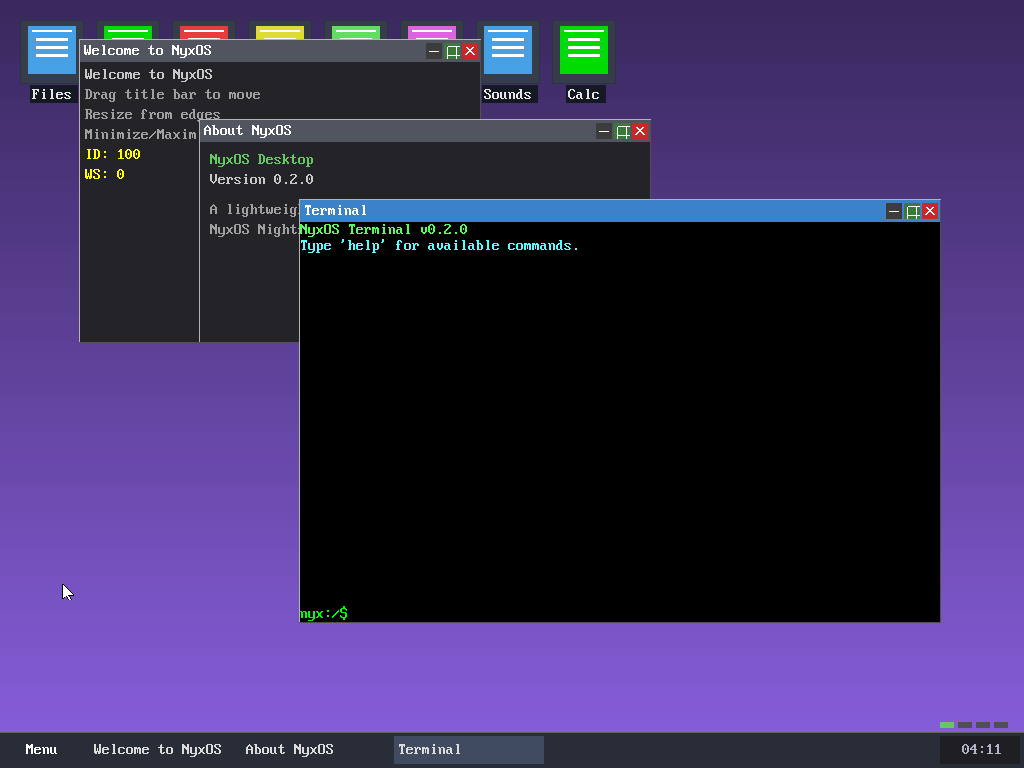
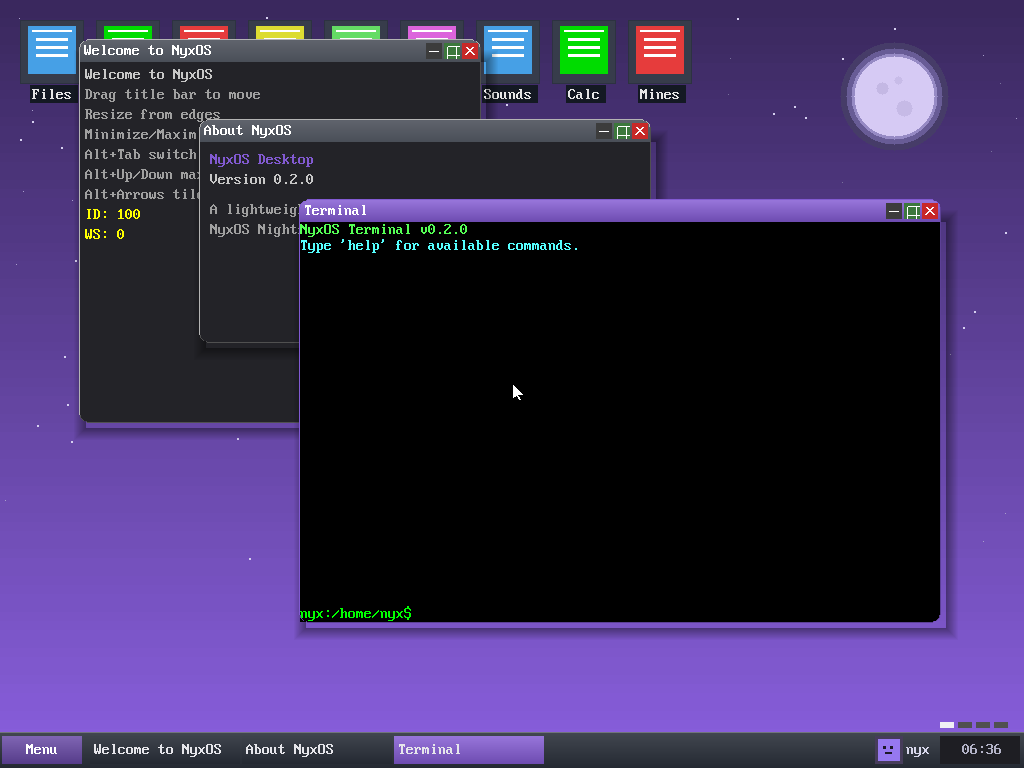
v5.9.19 - README hero screenshot refreshed (the repo face matches the OS)
gui.png was from before the entire v5.9.10-18 visual arc — square
windows, blue title bars, flat strips, no shadows, flat taskbar.
Replaced with a fresh headless boot capture showing the current chrome:
rounded windows, drop shadows, gradient title bars, purple brand Menu
button, gradient taskbar, Nightfall moon and wallpaper. README
cache-buster bumped ?v=3 -> ?v=4. Capstone of the v5.9.1-19 visual arc.

No code, no new syscalls (still 54). 0 faults, 0 panics.

diff --git a/kernel/kernel.h b/kernel/kernel.h
@@ -43,7 +43,7 @@ typedef __builtin_va_list va_list;
 // ============================================================
 #define NULL ((void*)0)
 #define KERNEL_NAME    "NyxOS"
-#define KERNEL_VERSION "5.9.18"
+#define KERNEL_VERSION "5.9.19"
 #define KERNEL_CODENAME "GUI Suite"
 #define KERNEL_DATE    "2026"
 

diff --git a/README.md b/README.md
@@ -9,7 +9,7 @@
   <a href="https://github.com/kazah-png/nyx-os/releases/tag/v5.9.0-LTS">
     <img src="https://img.shields.io/badge/release-v5.9.0--LTS-825AD2?style=flat" />
   </a>
-  <img src="https://img.shields.io/badge/status-v5.9.18-825AD2?style=flat" />
+  <img src="https://img.shields.io/badge/status-v5.9.19-825AD2?style=flat" />
   <img src="https://img.shields.io/badge/TCP-yes-825AD2?style=flat" />
   <img src="https://img.shields.io/badge/GUI-window%20compositor-825AD2?style=flat" />
   <img src="https://img.shields.io/badge/%F0%9F%8C%99%20NyxC-runtime-8b5cf6?style=flat" />
@@ -38,7 +38,7 @@ nyx:root$ nyxfetch
     .:oo.. :o.              -----------------
   :oo:.oo.o:                OS:         NyxOS x86_64
  .#o:.   :.                 Host:       QEMU Standard PC
- #:::....:                  Kernel:     NyxOS 5.9.18 (Full Suite)
+ #:::....:                  Kernel:     NyxOS 5.9.19 (Full Suite)
 o#::. . o.                  Uptime:     00:00:11
 o#.o:   :o                  Resolution: 1024 x 768
 o###o   o#                  CPU:        QEMU Virtual CPU version 2.5+ (1)
@@ -59,7 +59,7 @@ o###o   o#                  CPU:        QEMU Virtual CPU version 2.5+ (1)
 The project implements core kernel primitives, a custom network stack (RTL8139 NIC + ARP/IP/UDP/ICMP/DHCP + TCP with retransmission and passive open), userspace TCP/UDP sockets with `poll()` I/O multiplexing, a window compositor GUI, and a Sound Blaster 16 audio driver — all written in C and x86_64 Assembly with no external libraries.
 
 <div align="center">
-  <img src="gui.png?v=3" alt="NyxOS Desktop v5.9.18" width="700" />
+  <img src="gui.png?v=4" alt="NyxOS Desktop v5.9.19" width="700" />
   <p><em>NyxOS Desktop — app icons, purple wallpaper, windows and a taskbar</em></p>
 </div>
 
@@ -176,7 +176,7 @@ nyx:root$ ls /
 bin/   dev/   etc/   home/  mnt/   root/  tmp/   usr/   var/
 
 nyx:root$ uname
-NyxOS 5.9.18 (Full Suite) x86_64
+NyxOS 5.9.19 (Full Suite) x86_64
 
 nyx:root$ mem
 Physical memory: 256 MB total, 252 MB free

diff --git a/AGENTS.md b/AGENTS.md
@@ -184,6 +184,7 @@ Every commit must keep these in sync: GitHub Wiki (`nyx-os.wiki.git`), website (
 | v5.9.0-rc17 | **The three GUI highs — and a fourth found only by actually clicking.** **`gui.c:103` was a divide by zero in ring 0.** The paint loop interpolated between the previous and current pointer positions with `(x1 - x0) * i / steps`, and `steps` is 0 whenever the pointer has not moved since the last sample — i.e. any time the user holds the button down without dragging, which is the most ordinary thing to do with a paint tool. The loop still ran once, so `0 * 0 / 0` raised `#DE` in the kernel. At zero steps the endpoints are the same point, so there is nothing to interpolate; it plots and moves on. **`compositor.c:264` disagreed with the drawing code on all three of its numbers.** Entries start `START_ITEM_Y` = 28 px below the menu top, under the green header, and the hit test subtracted 8 — twenty pixels of skew, so the lower two thirds of every entry selected the one BELOW it and clicking "Terminal" opened Settings. The menu has thirteen entries and the test rejected `>= 12`, so Minesweeper could not be launched from the menu at all (the `case 12:` action existed and was reachable only from a desktop icon). And because C integer division truncates toward ZERO, a click on the header computed index 0 rather than something negative, the `< 0` guard never fired, and clicking the title bar launched File Manager. Fixed the way the TITLE_H family was: `START_HDR_H`/`START_ITEM_Y`/`START_ITEM_H`/`START_ITEM_N` are now read by both the drawing loop and the hit test, instead of each deriving the layout and being right or wrong on its own. **`fb.c` was worse than reported.** `fb_enable_backbuffer()` returned early when a buffer already existed — without repointing `fb_addr` at it. After a logout that pointer is the HARDWARE framebuffer, because `fb_use_lfb_direct()` sent the login screen there, so the *second* desktop of a session drew every element straight onto the visible screen (the flicker double buffering exists to prevent) while `fb_present` kept blitting the back buffer — still holding the previous user's frozen desktop — over it every frame. It now repoints and clears the buffer, so nothing from a session that logged out can survive into the next, and `fb_present` refuses to publish unless drawing is actually going to the back buffer. **The fourth: menu transitions were level-triggered.** The whole left-button block runs under `if (btns & 1)`, which re-runs every compositor iteration while the button is held — right for dragging, wrong for menus. Pressing "Menu" toggled it open on iteration 1; on iteration 2 the button was still down and the pointer was still on the taskbar at y=750, outside the menu rect, so the click-outside branch closed it again. The Start menu opened and shut inside a single press and whether anything survived came down to how long the click lasted. Opening, closing and selecting are all edge events; only the drag paths are level events. **Verified by driving the real PS/2 mouse** through the QEMU monitor and reading frames back as PNGs — the first suite in this project that clicks rather than types. It confirmed the drawn menu geometry matches the new constants exactly (13 entries at `360 + 28i`, Minesweeper last at y≈708) and that a press now opens the menu deterministically where the old build was parity-dependent. **Then verified end to end, by clicking.** The scripted harness could not deliver a button press — QEMU's HMP `mouse_button` does not itself emit a PS/2 packet — so the checks were driven on the real machine instead, with a hybrid that covers each tool's gap: the QEMU monitor positions the guest cursor exactly, and a genuine host press supplies the button. (`left_click` is unusable here: it moves the host pointer first, and under grab that relative motion drags the guest cursor off target. Press and release with no move in between works.) Results, each read off a screenshot: clicking the visual centre of **"Terminal"** (index 3) opened a **Terminal** — the old 20 px skew would have opened Settings; clicking **"Minesweeper"** (index 12), with no Minesweeper window on screen beforehand, **opened one** — the old `>= 12` guard rejected that index outright; clicking the **green header** opened nothing and left the menu up, with **Calculator** (index 11) clicked immediately afterwards as a positive control proving the input path was live at that moment, so "nothing happened" means ignored and not undelivered. For `gui.c`, the serial log confirms `gui_demo` was actually running (`Launching GUI demo...`) and two four-second press-and-holds **without moving the pointer** — the exact `steps == 0` condition — produced **0 PANIC, 0 Exception**. For `fb.c`, a real logout showed a clean login screen with no trace of the session behind it, and the second desktop came up **completely clean** — no Calculator, no Minesweeper, no second Terminal from the session that had just ended, which is the stale back buffer the fix clears. Harness kept at `scratchpad/guiverify.py`. **No new syscalls** (still 52). Regression: 4-CPU smpstress **0 integrity failures**, `threads` **8000/8000 OK**, `pstorm 30` **0 faulted / 0 MAPCORRUPT / 0 PANIC**, and no faults across every GUI run. |
 | v5.9.0-LTS | **P0.1 CLOSED — the intermittent ring-3 `[fault]` was a preemptible CR3-switch→iretq window in the syscall-exit path. LTS release.** The one release-blocking bug in the default configuration, open across the whole SMP arc, is root-caused and fixed with a single `cli`. **The mechanism, found by REASONING after in-guest instrumentation was proven to perturb the race away:** the syscall-exit path (`isr_stubs.asm`) does `mov cr3,[user]` and then runs ~20 instructions (CPL 0, already on the USER CR3, committed to ring 3) before the `iretq`. If a timer preempts the task *in that window*, `irq_common` saves a frame whose CS reads 0x08 — genuinely ring 0 — so `irq_scheduler_tick` resumes it on the KERNEL CR3 under its rule "a ring-0 frame switches to user itself before its iretq". But this task has ALREADY switched, so its `push 0x1B; iretq` returns to ring 3 **on the kernel CR3**; the first user instruction fetch faults with CR2==RIP. **Why it matched every observed property:** the window is only preemptible with IF=1, and syscall ENTRY masks IF via SF_MASK — so a *simple* syscall runs cli'd end-to-end and can never be hit. Only BLOCKING syscalls (`futex_wait`, `do_waitpid`, poll, pipe read) `sti` to yield and *return with IF=1* (verified: both break paths of `futex_wait` leave IF set), which is why the fault was **always in `threads`** (the only futex-heavy workload), **load-dependent** (the timer must land in ~20 instructions), and **present in the default single-core config** (it is a preemption-window bug, NOT an SMP race). It also explains why every earlier scheduler-*decision* probe showed a "correct" `saw_cs=0x8`: the decision *is* correct for a ring-0 frame; the frame cannot reveal that the CR3 switch already happened. **The fix:** one `cli` immediately after `signal_dispatch`, before the user-CR3 reload — making the CR3-switch→iretq window non-preemptible; the `iretq` restores the user RFLAGS (IF=1) atomically as it crosses to ring 3. Covers every syscall regardless of what it left IF as; the entry side needs no equivalent (IF=0 from SF_MASK) and the irq/isr return paths run under interrupt gates (IF=0), so no other such window exists. **Verified in the linked binary** (`fa` cli at 0x100343, between `call signal_dispatch` and `mov %gs:0x10,%rax`) and by an **interleaved A/B under build load** alternating the two ISOs every boot: baseline-without-cli reproduced P0.1 (`pid 7 (threads) … cs=0x1b <ON-KERNEL-CR3>`) while the cli build ran **23 valid rounds, 0 faults** under identical contention. The proof is primarily *mechanistic* — the cli closes the only (CPL0 + user-CR3 + IF=1) window in the kernel — with the A/B as the corroborating control. Also this arc: the fault diagnostic was corrected (`isr_common` now passes the faulting CR3 to `isr_handler`; a prior `read_cr3()` there reported the kernel CR3 on *every* ring-3 fault, an artefact that had driven five dead hypotheses), and `sched_forget()` closes a `sched_cur` use-after-free at both `kfree(process)` sites. **No new syscalls** (still 52). Regression on the fixed build: 4-CPU smpstress **0 integrity failures**, `threads` **8000/8000 OK**, `pstorm 30` **0 faulted / 0 MAPCORRUPT / 0 PANIC**; 23+ clean loaded rounds. **Known limits (opt-in, OFF by default, documented):** `smpbalance on` process-spreading and thread-group un-pinning still wedge under fork/exec churn (P2.x) — the default configuration does not touch them, and the VFS/terminal remain unlocked against a user process deliberately placed on an AP. | 
 | v5.9.1 | **"Nightfall" desktop — a central GUI palette, and the brand purple everywhere the placeholder green used to be.** First increment of the visual track that follows the LTS. **The refactor that made it possible: `kernel/theme.h`.** Colours were `fb_rgb(r,g,b)` literals scattered across `compositor.c` and every `*_win.c`, so changing the accent meant hunting call sites and the desktop could not be themed at all. Call sites now name a ROLE — `THEME_ACCENT`, `THEME_WINDOW_BG`, `THEME_BORDER`, `THEME_ROW_DIV`, `THEME_TASKBAR_*`, `THEME_TEXT`, `THEME_ON_ACCENT` — and the values live in one header. They are macros rather than a const struct because `fb_rgb()` is a runtime function, which also leaves the door open for a future Settings→accent by swapping them for a table lookup **without touching a single call site**. **The brand fix:** the accent is the brand purple `{130,90,210}` — the wallpaper's own default "Morado" — replacing the leftover placeholder green `fb_rgb(60,120,60)` on the Start-menu header band and its title text, and driving `taskbar_hl` so the **active Menu button and the focused window** now carry the accent. The window controls keep their traffic-light scheme (close red / minimise grey / maximise green): that green is a control affordance, not branding, and recolouring it would have broken a universal convention. **One accent swap was WRONG and the screenshot caught it.** The workspace indicator's active marker was moved to the accent like everything else — but it is drawn on the DESKTOP (`fh - TASKBAR_H - 10`), not the taskbar, and the wallpaper's base colour is user-selectable. Brand purple on the default purple wallpaper rendered the ACTIVE marker nearly invisible while the inactive greys stood out — exactly backwards, and strictly worse than the green it replaced. Zooming that 14x6 px region 8x is what exposed it; at full-screen scale it looked fine. Fixed with a dedicated `THEME_INDICATOR_ON`/`_OFF` pair (near-white vs dark grey) whose comment states the rule: anything painted over the wallpaper must be light-vs-dark, never accent-coloured, because it has to survive all eleven wallpaper choices. The About window's "NyxOS Desktop" heading also moved green → accent (it sits on a dark panel, so the accent reads fine there). **The desktop itself:** `draw_background()` rewritten as a Nightfall sky — a purple vertical gradient, a glowing moon built from concentric halos plus craters, and **110 deterministic LCG-seeded stars** that avoid the moon's area so the composition stays readable at any resolution. Two small helpers back it: `bg_isqrt()` (integer Newton square root — no FPU in the kernel) and `bg_fill_circle()` (horizontal-span fill). Determinism matters here: the star field is seeded, so every boot paints the identical sky rather than flickering to a new one on each repaint. **Branding swept beyond the GUI:** the README badges were still shields-green `00ff9d` while the brand is purple — all seven are now `825AD2`, so the repo, the login screen and the desktop finally agree on one colour. **No new syscalls** (still 52). No kernel-internals change: this increment is compositor + docs only, so the v5.9.0-LTS guarantees (P0.1 closed, 23 clean loaded rounds) carry over untouched. |
+| v5.9.19 | **README hero screenshot refreshed — the repo's public face finally matches the OS.** `gui.png` was dated **2026-07-21**, from before the entire v5.9.10-18 visual arc: it showed square windows, a *blue* Terminal title bar (the pre-brand accent), flat title strips, no drop shadows, and a flat taskbar — a genuinely different, worse-looking desktop than what NyxOS is now. Regenerated from a fresh headless boot of the v5.9.19 build (0 faults): the new shot shows the full current chrome — rounded windows on all four corners, soft drop shadows, top-lit gradient title bars, the purple brand Menu button and gradient taskbar, the Nightfall moon and wallpaper. `gui.png` replaced (11.7 KB -> 21.2 KB, still trivially small), and the README's cache-buster bumped `?v=3` -> `?v=4` so the new image actually shows on GitHub rather than serving the stale cached one. This is the capstone of the visual track (v5.9.1-19): branding, palette, window chrome, tiling, keyboard management, and depth are all shipped and now accurately advertised. **No code, no new syscalls** (still 54 — `gui.png` + README only). |
 | v5.9.18 | **Windows round on all four corners — the v5.9.12 follow-up, closed with a framebuffer clip region.** Since v5.9.12 only the window *tops* rounded, because app draw callbacks (`terminal_win_draw`, etc.) fill their client rect edge-to-edge and would square off any rounded bottom. The clean fix is the one v5.9.17 set up: a **clip region** in `fb.c`. `fb_set_round_clip(x,y,w,h,r)` / `fb_clear_clip()` install a rectangle whose two BOTTOM corners are rounded to `r` (the top stays square — the title bar rounds that); `fb_fill_rect` and `fb_blit` mask their writes to it via a per-row `clip_span()` that narrows by `fb_corner_inset` within `r` of the bottom. The compositor wraps each window's **body fill + `win->draw()`** in the clip (and reorders the app draw *before* the frame), so whatever an app paints is masked to the window's rounded-bottom silhouette; `draw_window_frame` then traces the bottom arc unclipped, mirroring the top. **The risk was touching `fb_fill_rect` — the hottest primitive — so the clip-off path is kept byte-for-byte identical and that was proven, not asserted:** the login screen (which never sets a clip) screendumps **identical to the pre-clip build** (0 differing bytes), so nothing on the fast path moved. The desktop then shows every window as a full rounded card — an 8x crop of the Terminal's bottom-right shows the black content curving to the arc, the accent border tracing it, wallpaper through the corner — with terminal text intact (no interior clipping), shadows/gradients untouched, 0 faults. Font glyphs write the framebuffer directly and are deliberately left unclipped (text never reaches the corner arcs). **Landed in one increment, not the two estimated.** **No new syscalls** (still 54 — `fb.c` capability + compositor wiring). |
 | v5.9.17 | **Rounded-corner primitives consolidated into `fb.c` — paying down the debt v5.9.16 flagged.** By v5.9.16 the rounding logic existed in **three** copies: the compositor's `corner_inset` + `fill_round_rect` + `stroke_round_rect`, its `bg_isqrt` (for the moon), and login.c's `li_*` clones (needed because a standalone pre-compositor screen can't see the compositor's `static` code). All of it is pure maths over `fb_fill_rect`/`fb_put_pixel`, so it belongs in `fb.c` next to the other framebuffer primitives. This lifts `fb_isqrt`, `fb_corner_inset`, `fb_fill_round_rect`, and `fb_stroke_round_rect` there as public functions (declared in `kernel.h`); the compositor and login.c now call those, and `bg_fill_circle` (the Nightfall moon) shares the one `fb_isqrt` too. **Net: three copies collapse to one, ~70 lines of duplication gone, the binary a touch smaller.** This is a pure refactor — no pixel should move — and that was **proven, not assumed**: the login screen, which exercises all four lifted functions (`fill_round_rect` for the card, `corner_inset` for the header, `stroke_round_rect` for the border, `isqrt` underneath), screendumps **byte-for-byte identical** to v5.9.16 ([phone redacted] bytes, 0 differing). The desktop re-verified visually unchanged (rounded window tops, gradients, shadows all intact), 0 faults. A `sed`-driven rename kept the call sites mechanical; the removed definitions were checked to leave no dangling references (`bg_isqrt`/`corner_inset`/`li_*` all gone). **No new syscalls** (still 54 — internal refactor, no behaviour change). |
 | v5.9.16 | **Login card — the brand look reaches the first screen the user sees.** Six increments polished the desktop chrome (v5.9.10-15) but the login panel — the *first* surface on boot — was still a flat rectangle with a plain title. It is now a rounded card with an accent-gradient brand header, matching the desktop it leads into. **The interesting constraint is that `login.c` is a standalone pre-compositor screen:** it runs before `compositor_run()` enables double buffering (so it draws straight to the hardware LFB) and it cannot see the compositor's `static` corner/rounding code. Rather than couple the two files, it grows small local helpers — `li_isqrt` + `li_inset` + `li_fill_round` + `li_stroke_round` — pure maths over `fb_fill_rect`/`fb_put_pixel`. The gradient header reuses the already-public `fb_fill_vgrad`-era primitives (`font_draw_string_trans` for the transparent title), so only the corner code is duplicated; a shared gfx primitive to retire both this copy and the compositor's is noted in-code as a future cleanup. **The header is sized to the old title+divider band (34 px), so nothing below it moved** — the username/password fields, avatar picker (create mode), and hints keep their exact offsets, which matters because `draw_active_field` repaints individual fields by hard-coded geometry on every keystroke. The panel is a full **four-corner** rounded card (it floats centred, like the context menus), title flipped to white on the purple gradient, border a rounded brand-purple stroke. **Verified headlessly with no temp force needed** — the login screen shows before credentials are entered, so the harness just boots, waits for `[LOGIN] Ready`, and screendumps: the card shows the gradient "NyxOS Login" header, rounded corners with the background gradient through the curve, and the brand-purple active username field; 0 faults. **No new syscalls** (still 54 — `login.c` only). |